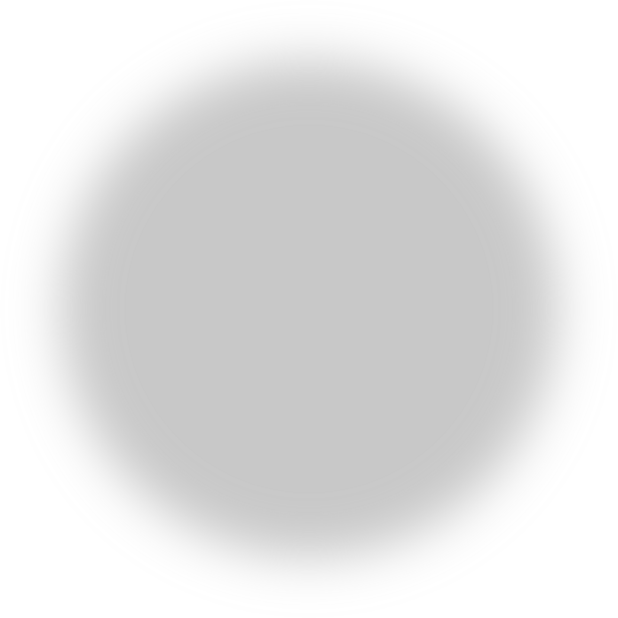
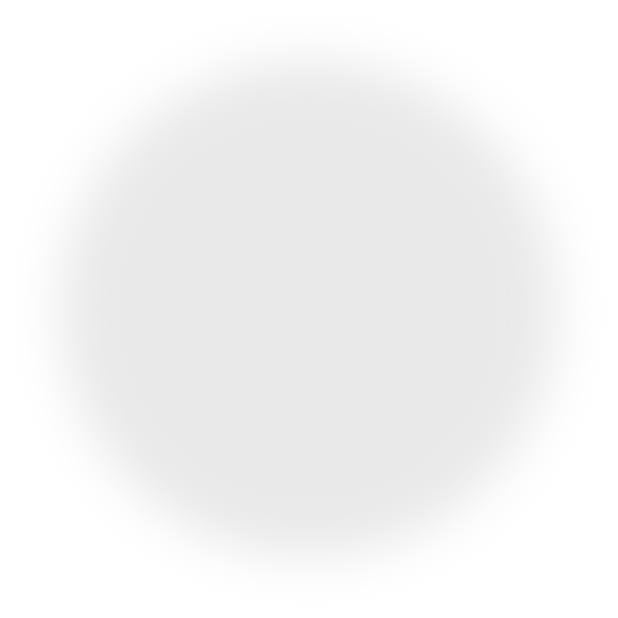
some more design tweaks
moved word slots around, made the glow lighter

diff --git a/style/style.css b/style/style.css
@@ -19,8 +19,8 @@ body {
     position: absolute;
     background: url('../img/logo.png') 0 0 no-repeat;
     background-size: contain;
-    width: 140px;
-    height: 79px;
+    width: 142px;
+    height: 80px;
     top: 10px;
     left: 50%;
     margin-left: -75px;
@@ -34,12 +34,12 @@ body {
 } 
 
 #circle {
-    background: url('../img/glow.png') 0 0 no-repeat;
+    background: url('../img/glow.png') 0 0 no-repeat; 
     background-size: 100% 100%;
     height: 618px;
     width: 618px;
     margin: 0 auto;
-    opacity: 0.6;
+    opacity: 0.8;
     transition: filter 300ms linear, opacity 300ms linear;
     -webkit-transition: -webkit-filter 300ms linear, opacity 300ms linear;
     filter: grayscale(100%);
@@ -105,13 +105,13 @@ body {
 }
 
 .slot1 {
-    top: 60px;
-    margin-right: -114px;
+    top: 70px;
+    margin-right: -94px;
 }
 
 .slot2 {
-    top: 60px;
-    margin-left: -100px;
+    top: 70px;
+    margin-left: -80px;
 }
 
 .slot3 {
@@ -120,18 +120,18 @@ body {
 }
 
 .slot4 {
-    top: 190px;
-    margin-left: -30px;
+    top: 220px;
+    margin-left: -10px;
 }
 
 .slot5 {
     top: 340px;
-    margin-right: -50px;
+    margin-right: -40px;
 }
 
 .slot6 {
-    top: 330px;
-    margin-left: -60px;
+    top: 390px;
+    margin-left: -40px;
 }
 
 .slot7 {
@@ -140,14 +140,14 @@ body {
 }
 
 .slot8 {
-    top: 460px;
-    margin-left: -100px;
+    top: 520px;
+    margin-left: -140px;
 }
 
 .slot9 {
     left: 50%;
     margin-left: -117px;
-    margin-top: -55px;
+    margin-top: -40px;
 }
 
 .none {
